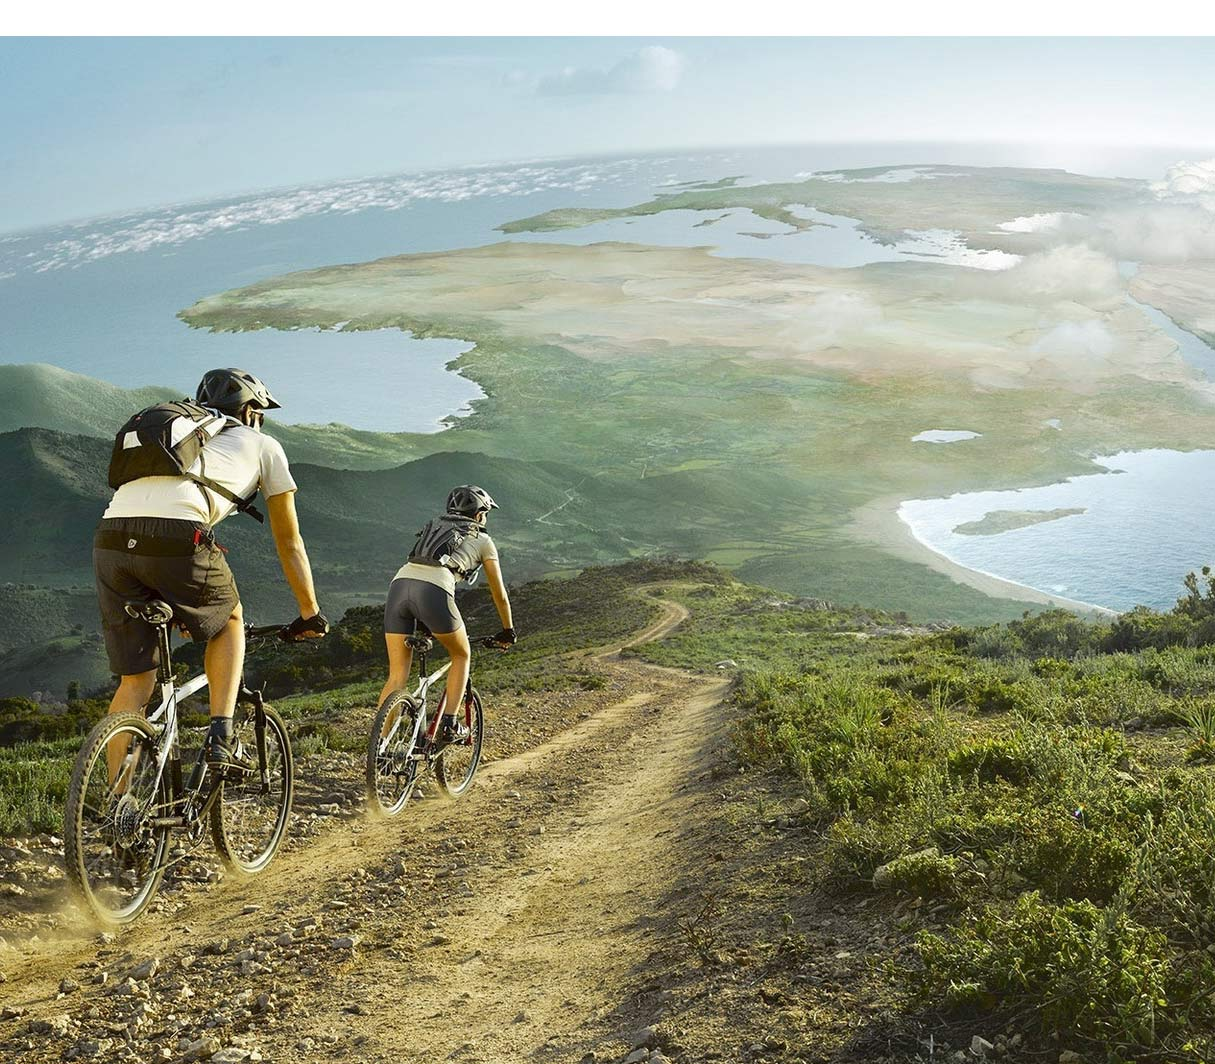
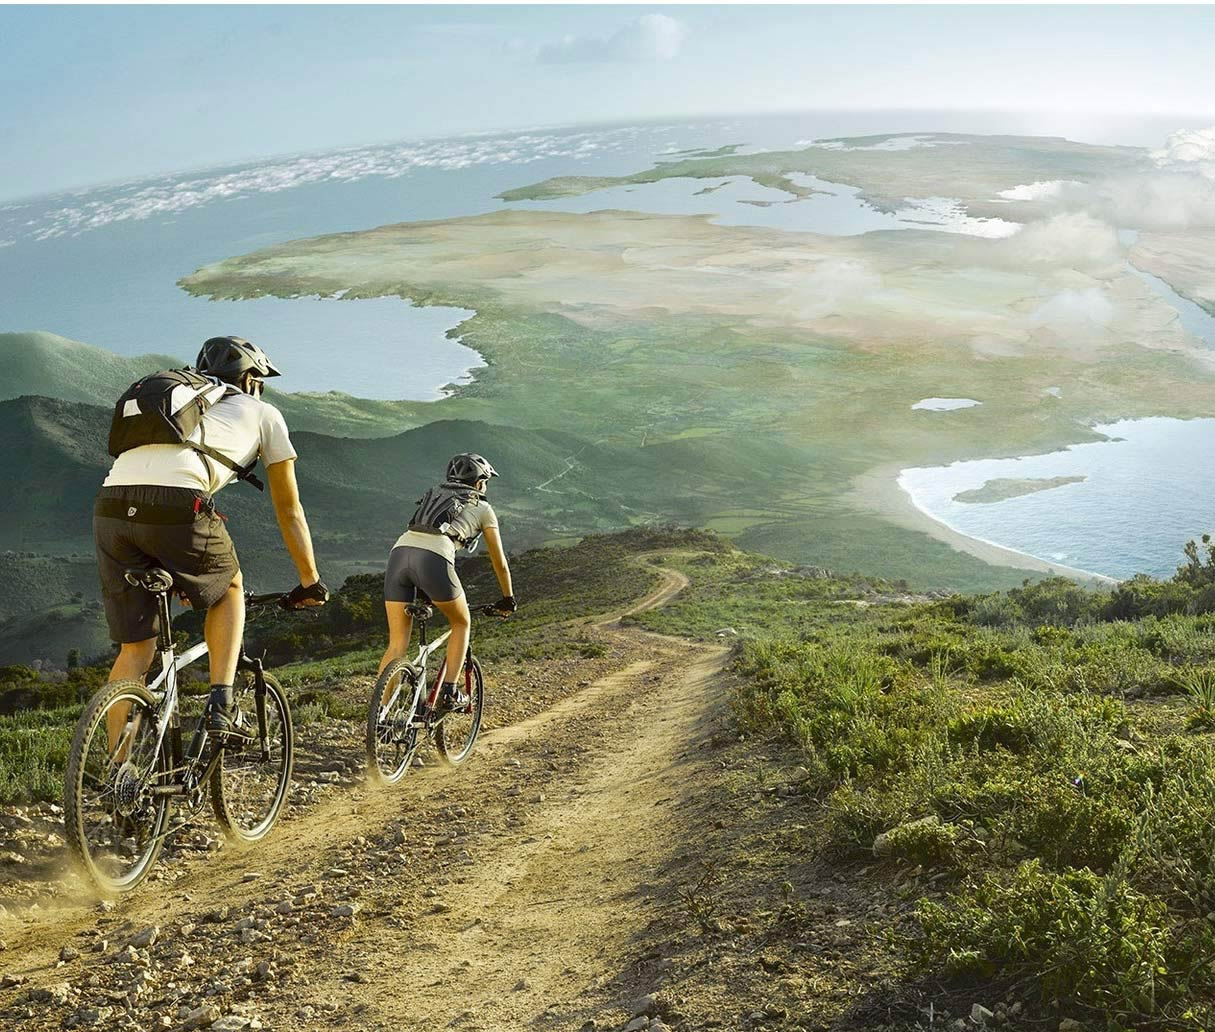
image on full display

diff --git a/task5/css/style.css b/task5/css/style.css
@@ -23,10 +23,13 @@ body {
 }
 /*--------HEADER---------------------------*/
 header {
-	width: 1215px;
+	width: 1349px;
 	height: 36px;
 	background-image: url(../img/bg-nav.jpg);
 	background-repeat: repeat-x;
+}
+nav {
+	margin: 0px 0px 0px 110px;
 }
 
 .left-nav {
@@ -85,7 +88,7 @@ header {
 }
 
 .right-nav {
-	margin-right: 20px;
+	/*margin-right: 20px;*/
 	height: 36px;
 }
 
@@ -142,10 +145,12 @@ header {
 /*-------WRAPPER------------------------------------------*/
 .wrapper {
 	position: relative;
-	margin: -0 auto;
-	width: 1215px;
+	margin: 0 auto;
+	width: 1349px;
 	height: 1064px;
 	background-image: url(../img/bg.jpg);
+	background-size:100%;
+	background-repeat: no-repeat;
 	box-shadow: 4px 4px 10px #1c1c1c;
 }
 
@@ -158,8 +163,8 @@ header {
 .container {
 	position: absolute;
 	top:21.14%;
-	left: 26.95%;
-	margin: auto;
+	left: 29.95%;
+	margin: 0 auto;
 	width: 560px;
 	height: 614px;
 	background-color: rgba(15,15,15,0.7);
